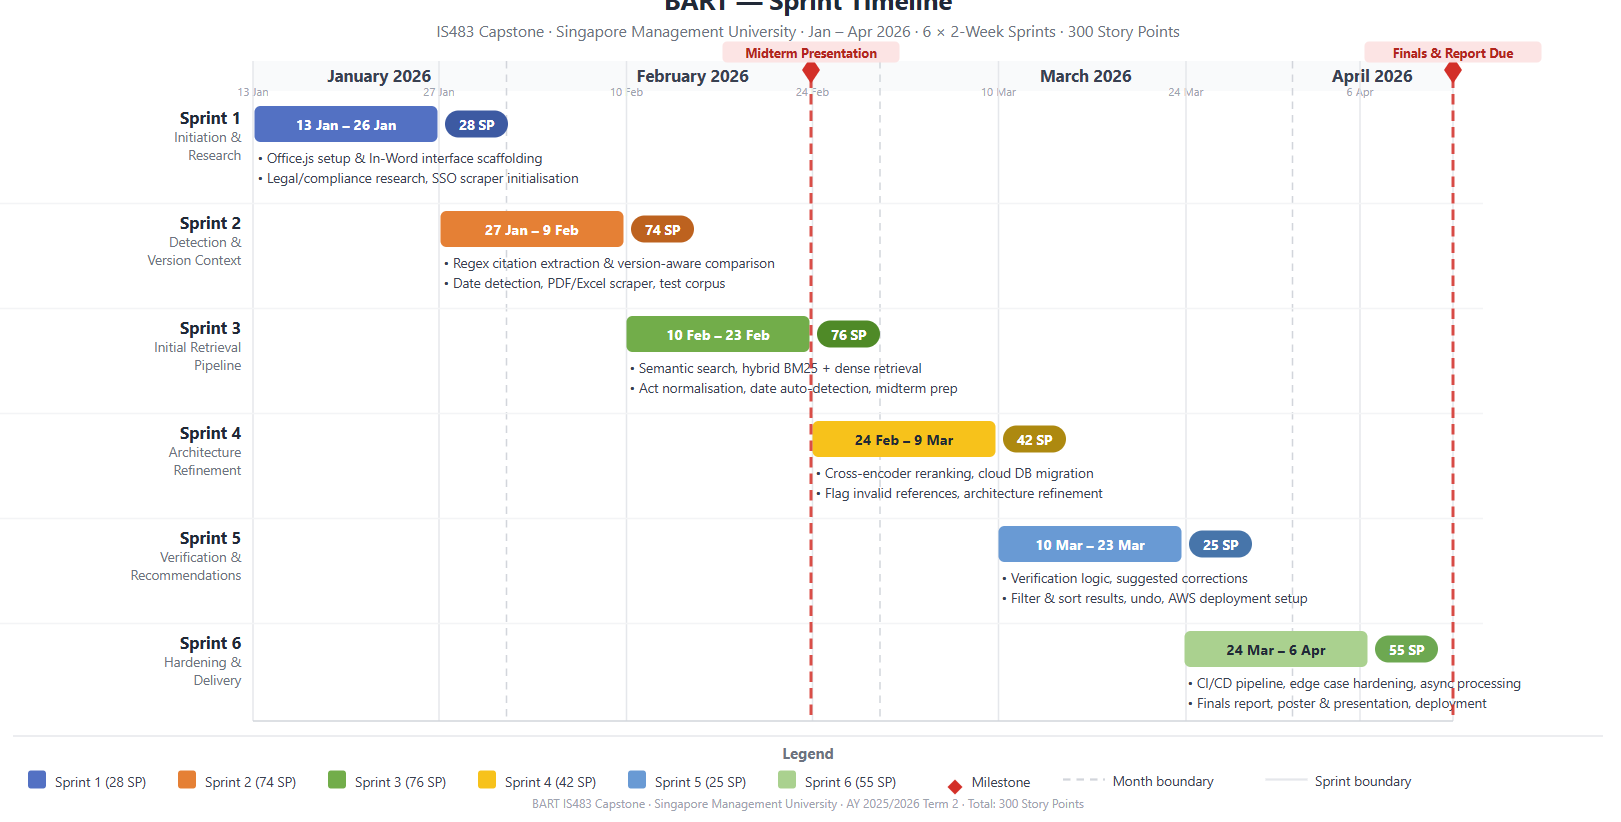
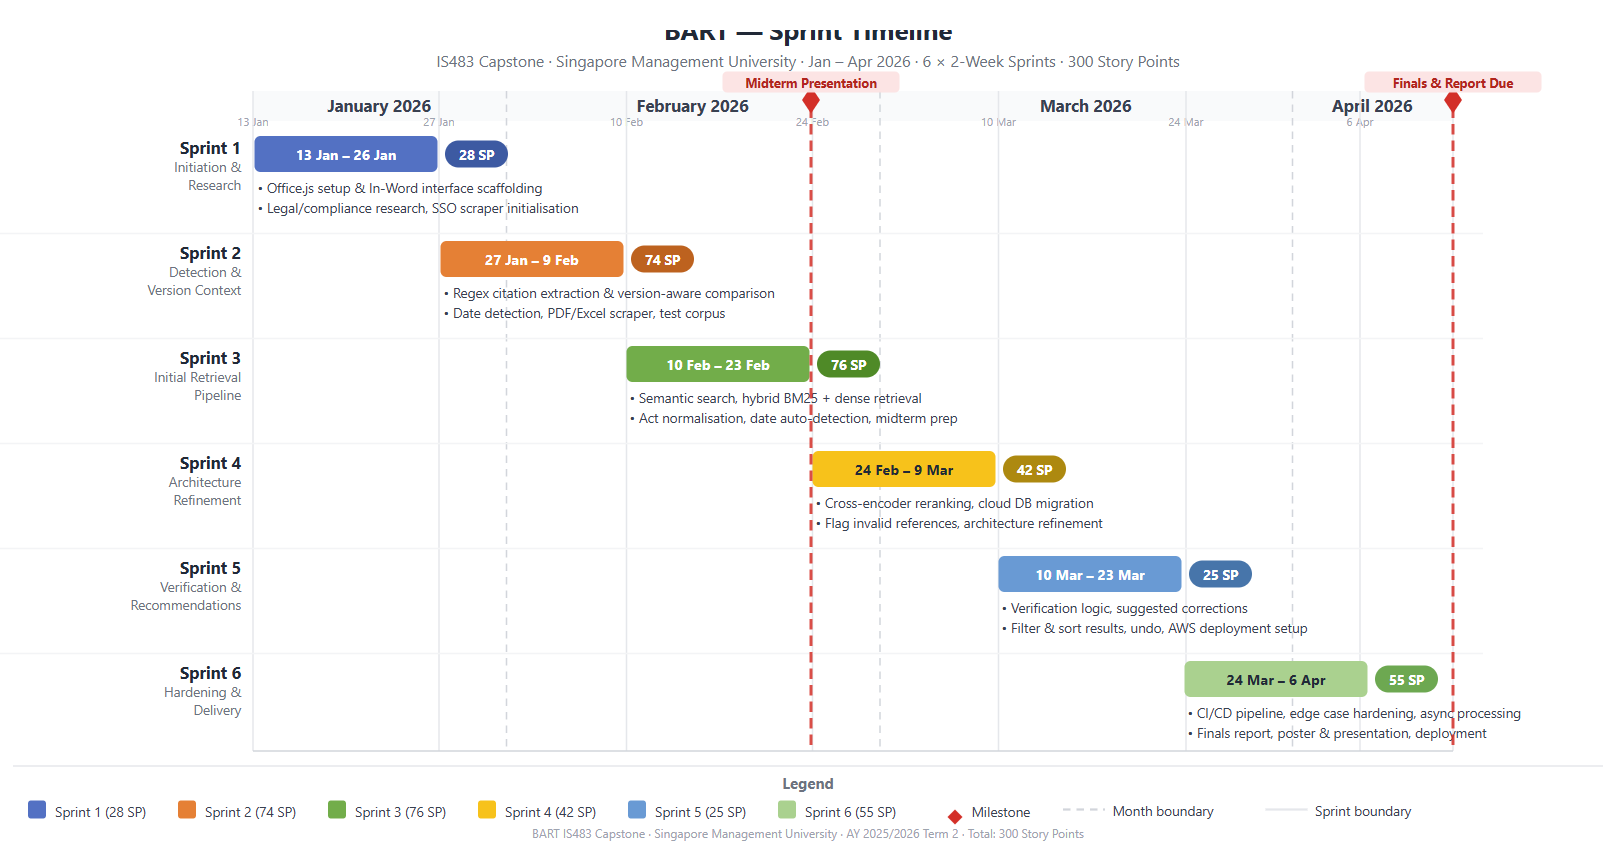
fix: remove em-dashes, drop user persona, crop image18 black line, pad image10 top, rename button to Details

diff --git a/portfolio/src/components/BartCaseStudyModal.tsx b/portfolio/src/components/BartCaseStudyModal.tsx
@@ -14,78 +14,67 @@ interface Section {
 
 const SECTIONS: Section[] = [
   {
-    heading: "The Problem",
-    body: "Junior lawyers and banking & finance associates spend significant non-billable time manually verifying statutory citations in legal documents — checking that sections referenced in agreements actually exist, are still in force, and are correctly numbered. BART automates this entirely inside Microsoft Word.",
-    images: [
-      {
-        src: "/projects/bart/image25.png",
-        caption: "User persona — Rachel Lim, Junior Associate (Banking & Finance). Her core pain: manual verification of statutory references is time-consuming, error-prone, and disrupts her drafting flow.",
-        wide: true,
-      },
-    ],
-  },
-  {
     heading: "User Workflow",
-    body: "BART integrates as a Word task pane add-in. The interaction model is designed to be non-disruptive — scan, surface findings grouped by confidence, let the user inspect evidence in-document, then accept or reject corrections. Track Changes captures every accepted edit so the drafter retains full visibility.",
+    body: "BART integrates as a Word task pane add-in. The interaction model is designed to be non-disruptive: scan, surface findings grouped by confidence, let the user inspect evidence in-document, then accept or reject corrections. Track Changes captures every accepted edit so the drafter retains full visibility.",
     images: [
       {
         src: "/projects/bart/image12.png",
-        caption: "End-to-end user workflow — from opening the add-in to producing a reviewed, compliant document with Track Changes.",
+        caption: "End-to-end user workflow from opening the add-in to producing a reviewed, compliant document with Track Changes.",
         wide: true,
       },
     ],
   },
   {
     heading: "Processing Pipeline",
-    body: "Each candidate citation is passed through a 7-stage pipeline. Hybrid retrieval (BM25 + dense vector search via RRF fusion) is used because statutory text is lexically precise — sparse retrieval catches exact act names while dense retrieval handles paraphrases and incomplete references. A cross-encoder reranker then reorders candidates before version verification.",
+    body: "Each candidate citation is passed through a 7-stage pipeline. Hybrid retrieval (BM25 + dense vector search via RRF fusion) is used because statutory text is lexically precise: sparse retrieval catches exact act names while dense retrieval handles paraphrases and incomplete references. A cross-encoder reranker then reorders candidates before version verification.",
     images: [
       {
         src: "/projects/bart/image20.png",
-        caption: "The 7-step citation pipeline: Extract → Normalise → Retrieve (hybrid BM25 + dense) → Rerank (cross-encoder) → Arbitrate → Verify (version + date) → Recommend.",
+        caption: "The 7-step citation pipeline: Extract, Normalise, Retrieve (hybrid BM25 + dense), Rerank (cross-encoder), Arbitrate, Verify (version + date), Recommend.",
         wide: true,
       },
     ],
   },
   {
     heading: "End-to-End Architecture",
-    body: "The Office.js frontend (Next.js) communicates with a FastAPI backend over HTTPS. The backend hosts the full retrieval pipeline — embedder, vector store, BM25 index, and reranker. An async job path lets long documents run as background jobs with polling, so Word remains responsive.",
+    body: "The Office.js frontend (Next.js) communicates with a FastAPI backend over HTTPS. The backend hosts the full retrieval pipeline: embedder, vector store, BM25 index, and reranker. An async job path lets long documents run as background jobs with polling, so Word remains responsive.",
     images: [
       {
         src: "/projects/bart/image19.png",
-        caption: "Full system architecture — Office.js/Next.js Word add-in, FastAPI unified scan endpoint, retrieval pipeline (chunk + hybrid retrieval → merge → version verify → recommend + format), and offline scraper/ingest pipeline for the statutory corpus.",
+        caption: "Full system architecture: Office.js/Next.js Word add-in, FastAPI unified scan endpoint, retrieval pipeline (chunk + hybrid retrieval, merge, version verify, recommend + format), and offline scraper/ingest pipeline for the statutory corpus.",
         wide: true,
       },
     ],
   },
   {
     heading: "Scan Workflow & Data Security",
-    body: "Document text is processed transiently — it lives only in active memory during the request and is discarded after the response. No client text is written to any persistence layer: no app logs, no database rows, no file storage, no analytics. The statutory corpus (public data only) is the sole persistent store.",
+    body: "Document text is processed transiently and lives only in active memory during the request, then discarded after the response. No client text is written to any persistence layer: no app logs, no database rows, no file storage, no analytics. The statutory corpus (public data only) is the sole persistent store.",
     images: [
       {
         src: "/projects/bart/image18.png",
-        caption: "BART scan request lifecycle — AOS-hosted backend, in-memory processing pipeline, results-only response, no document persistence anywhere in the stack.",
+        caption: "BART scan request lifecycle: AOS-hosted backend, in-memory processing pipeline, results-only response, no document persistence anywhere in the stack.",
         wide: true,
       },
     ],
   },
   {
     heading: "Retrieval Stack",
-    body: "MatchingService is the retrieval abstraction layer. It wires four infrastructure components behind a clean interface: a Qwen3-0.6B dense embedder, a Chroma/pgvector vector store, a BM25Okapi sparse index with a legal-aware tokeniser, and a BGE cross-encoder reranker. Swapping backends (e.g. Chroma → RDS pgvector for production) requires only a config flag.",
+    body: "MatchingService is the retrieval abstraction layer, wiring four infrastructure components behind a clean interface: a Qwen3-0.6B dense embedder, a Chroma/pgvector vector store, a BM25Okapi sparse index with a legal-aware tokeniser, and a BGE cross-encoder reranker. Swapping backends (e.g. Chroma to RDS pgvector for production) requires only a config flag.",
     images: [
       {
         src: "/projects/bart/image16.png",
-        caption: "MatchingService component diagram — Qwen3 embeddings, Chroma persistent client (dev) / PostgreSQL pgvector (prod), BM25Index with legal tokenisation, BGE cross-encoder reranker.",
+        caption: "MatchingService component diagram: Qwen3 embeddings, Chroma persistent client (dev) / PostgreSQL pgvector (prod), BM25Index with legal tokenisation, BGE cross-encoder reranker.",
         wide: true,
       },
     ],
   },
   {
     heading: "Data Store Design",
-    body: "Offline ingestion chunks the statute corpus (≤800 chars per chunk), embeds with Qwen3-0.6B, and populates both the vector store and the BM25 index. Each chunk carries version metadata (YYYYMMDD) so the verification step can flag outdated, removed, or renumbered provisions.",
+    body: "Offline ingestion chunks the statute corpus (800 chars per chunk max), embeds with Qwen3-0.6B, and populates both the vector store and the BM25 index. Each chunk carries version metadata (YYYYMMDD) so the verification step can flag outdated, removed, or renumbered provisions.",
     images: [
       {
         src: "/projects/bart/image21.png",
-        caption: "Persistent stores: Statute Corpus (JSON, version-keyed) → ingest_corpus.py → Vector Store (Chroma/pgvector, 1024-dim cosine) + BM25 Index (~299 MB, legal-aware tokeniser). Scan results are transient — discarded on server restart.",
+        caption: "Persistent stores: Statute Corpus (JSON, version-keyed) ingested into Vector Store (Chroma/pgvector, 1024-dim cosine) and BM25 Index (~299 MB, legal-aware tokeniser). Scan results are transient and discarded on server restart.",
         wide: true,
       },
     ],
@@ -96,11 +85,11 @@ const SECTIONS: Section[] = [
     images: [
       {
         src: "/projects/bart/image5.png",
-        caption: "Word add-in task pane — match results with confidence scores, verification status (VALID / AMENDED / REMOVED / RENUMBERED), and inline suggested corrections.",
+        caption: "Word add-in task pane showing match results with confidence scores, verification status (VALID / AMENDED / REMOVED / RENUMBERED), and inline suggested corrections.",
       },
       {
         src: "/projects/bart/image3.png",
-        caption: "Citation detection in action — statute references are extracted from the document, matched against the corpus, and surfaced with evidence excerpts and recommended actions.",
+        caption: "Citation detection in action: statute references extracted from the document, matched against the corpus, and surfaced with evidence excerpts and recommended actions.",
       },
     ],
   },
@@ -110,26 +99,26 @@ const SECTIONS: Section[] = [
     images: [
       {
         src: "/projects/bart/image15.png",
-        caption: "CI pipeline architecture — lint gate (ruff, py310/py312) → parallel scraper-tests (pytest, JUnit XML), backend-tests (pytest + coverage), frontend-tests (Vitest, 6 files · 65 tests).",
+        caption: "CI pipeline architecture: lint gate (ruff, py310/py312) unblocking parallel scraper-tests (pytest, JUnit XML), backend-tests (pytest + coverage), and frontend-tests (Vitest, 6 files, 65 tests).",
         wide: true,
       },
       {
         src: "/projects/bart/image4.png",
-        caption: "Successful GitHub Actions CI run — all 4 jobs pass in 3m 20s on a pull request.",
+        caption: "Successful GitHub Actions CI run: all 4 jobs pass in 3m 20s on a pull request.",
       },
       {
         src: "/projects/bart/image1.png",
-        caption: "Backend unit test coverage report — 99 test functions across 14 modules, run against the full FastAPI service.",
+        caption: "Backend unit test coverage report: 99 test functions across 14 modules, run against the full FastAPI service.",
       },
     ],
   },
   {
     heading: "Sprint Timeline",
-    body: "BART was built across 6 two-week sprints (Jan–Apr 2026) under the SMU IS483 capstone framework, totalling 300 story points. Each sprint had a defined technical focus — from Office.js scaffolding and scraper initialisation through to CI/CD hardening, async processing, and AWS deployment.",
+    body: "BART was built across 6 two-week sprints (Jan–Apr 2026) under the SMU IS483 capstone framework, totalling 300 story points. Each sprint had a defined technical focus from Office.js scaffolding and scraper initialisation through to CI/CD hardening, async processing, and AWS deployment.",
     images: [
       {
         src: "/projects/bart/image10.png",
-        caption: "6-sprint Agile roadmap — Sprint 1 (initiation & research, 28 SP) through Sprint 6 (hardening & delivery, 55 SP). Midterm presentation at Sprint 3, finals due end of Sprint 6.",
+        caption: "6-sprint Agile roadmap: Sprint 1 (initiation & research, 28 SP) through Sprint 6 (hardening & delivery, 55 SP). Midterm presentation at Sprint 3, finals due end of Sprint 6.",
         wide: true,
       },
     ],
@@ -157,7 +146,7 @@ export default function BartCaseStudyModal({ onClose }: Props) {
       onClick={onClose}
       aria-modal="true"
       role="dialog"
-      aria-label="BART case study"
+      aria-label="BART details"
     >
       <div
         className="relative flex w-full max-w-4xl flex-col overflow-hidden rounded-2xl border border-cream-200 bg-white shadow-2xl"
@@ -174,7 +163,7 @@ export default function BartCaseStudyModal({ onClose }: Props) {
           </div>
           <div className="flex items-center gap-4">
             <span className="rounded-full border border-sage-200 bg-sage-50 px-2.5 py-0.5 text-[11px] font-semibold text-sage-700">
-              Case Study
+              Details
             </span>
             <button
               onClick={onClose}
@@ -194,7 +183,7 @@ export default function BartCaseStudyModal({ onClose }: Props) {
               Statutory Reference Checker
             </h2>
             <p className="max-w-2xl text-sm leading-relaxed text-warm-500">
-              A Microsoft Word add-in that scans and verifies statutory citations in legal documents against Singapore Statutes Online — combining hybrid BM25 + dense vector retrieval, cross-encoder reranking, and version-aware verification inside the drafting environment.
+              A Microsoft Word add-in that scans and verifies statutory citations in legal documents against Singapore Statutes Online, combining hybrid BM25 + dense vector retrieval, cross-encoder reranking, and version-aware verification inside the drafting environment.
             </p>
             <div className="mt-4 flex flex-wrap gap-1.5">
               {["Next.js", "FastAPI", "Office.js", "Qwen3", "ChromaDB", "pgvector", "BGE Reranker", "GitHub Actions", "AWS"].map(tag => (
@@ -235,7 +224,7 @@ export default function BartCaseStudyModal({ onClose }: Props) {
             ))}
           </div>
 
-          {/* Footer spacer */}
+          {/* Footer */}
           <div className="mt-12 border-t border-cream-100 pt-6">
             <p className="text-[11px] text-warm-300">
               BART · IS483 Software Project Management · Singapore Management University · AY2025/2026 Term 2

diff --git a/portfolio/src/components/Projects.tsx b/portfolio/src/components/Projects.tsx
@@ -80,7 +80,7 @@ export default function Projects() {
                       className="inline-flex items-center gap-1.5 rounded-full border border-sage-200 bg-sage-50 px-3 py-1.5 text-[11px] font-semibold uppercase tracking-[0.15em] text-sage-600 transition-all duration-200 hover:border-sage-300 hover:bg-sage-100"
                       aria-label="View BART case study"
                     >
-                      Case study
+                      Details
                       <svg xmlns="http://www.w3.org/2000/svg" className="h-3 w-3" fill="none" viewBox="0 0 24 24" stroke="currentColor" strokeWidth={2} aria-hidden="true">
                         <path strokeLinecap="round" strokeLinejoin="round" d="M9 5l7 7-7 7" />
                       </svg>
